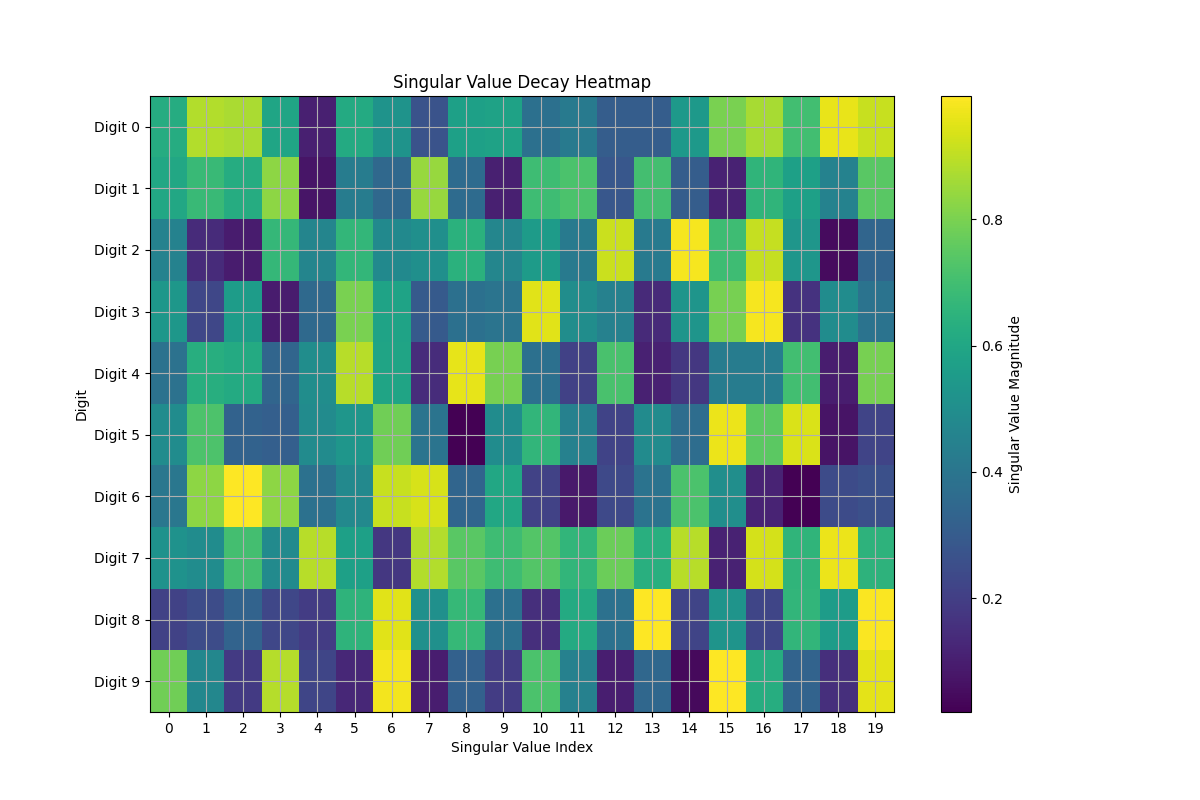
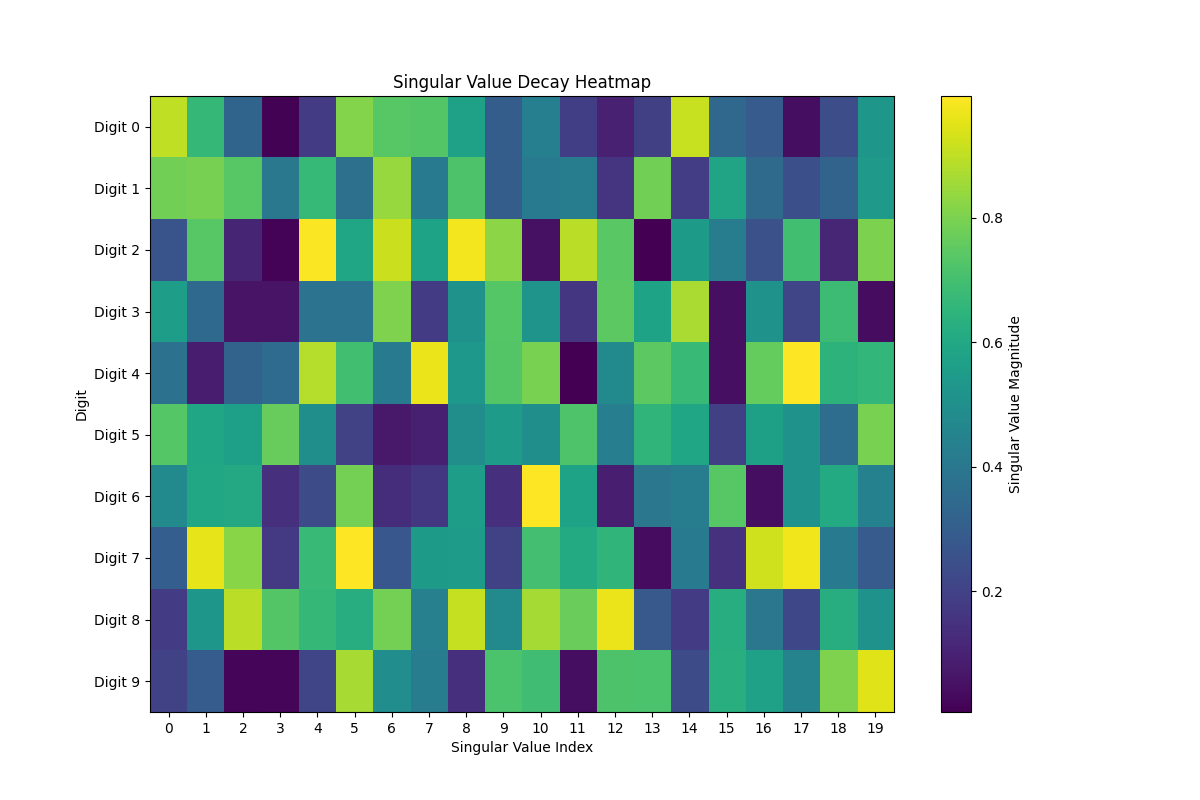
Graphs and some comments

diff --git a/problem3.py b/problem3.py
@@ -29,7 +29,7 @@ test_labels = load_data('handwriting_test_set_labels.txt')
 
 # Constants (0-9) & the features per sample (unit)
 num_digits = 10
-num_features = 400
+num_features = 400 # might take it out but 20x20 pixels = 400 features
 ks = [5, 10, 15, 20] # Singular vectors for SVD classification (not sure if we just pick one)
 
 # Change training data by digit --> calculates SVD for each digit
@@ -143,7 +143,7 @@ Graph
 Note: Took out some graphs, but the png is still in the folder
 '''
 # Graph of classification accuracy vs. number of singular vectors
-accuracies = [91.80, 94.40, 95.30, 95.70]
+accuracies = [results[k] for k in ks]
 
 plt.figure(figsize=(10, 6))
 plt.plot(ks, accuracies, marker='o', linestyle='-', color='b')
@@ -155,8 +155,15 @@ plt.xticks(ks)  # Only k values will show
 plt.ylim(min(accuracies) - 1, max(accuracies) + 1)  # Might change this
 plt.savefig('classification_accuracy_vs_singular_vectors.png')
 plt.show()
-
-
+'''
+plt.figure(figsize=(10, 5))
+plt.plot(ks, accuracies, marker='o')
+plt.title('Classification Accuracy vs Number of Singular Vectors')
+plt.xlabel('Number of Singular Vectors')
+plt.ylabel('Accuracy (%)')
+plt.grid(True)
+plt.show()
+'''
 # Singular value decay for each digit
 singular_values = {digit: np.random.rand(20) for digit in range(10)}
 data_matrix = np.array([values for _, values in sorted(singular_values.items())]) # Matrix of singular values
@@ -169,7 +176,7 @@ plt.xlabel('Singular Value Index')
 plt.ylabel('Digit')
 plt.yticks(np.arange(10), [f'Digit {i}' for i in range(10)])
 plt.xticks(np.arange(20))
-plt.grid(True)
+plt.grid(False)
 plt.savefig('singular_value_decay_heatmap.png')
 plt.show()
 
@@ -183,11 +190,18 @@ plt.title('Singular Values for Each Digit')
 plt.legend()
 plt.grid(True)
 plt.xticks(np.arange(20))
+plt.savefig('singular_values_for_each_digit.png')
 plt.show()
 
 # Misclassifications per digit
-misclassifications = {digit: np.random.randint(0, 100) for digit in range(10)} 
+misclassifications = {digit: 0 for digit in range(10)}
 
+    # Count misclassifications for each digit
+for pred, true in zip(predictions, test_labels):
+    if pred != int(true) - 1:  
+        misclassifications[int(true) - 1] += 1 
+
+    # Plotting the correct data
 digits = list(misclassifications.keys())
 errors = list(misclassifications.values())
 
@@ -198,7 +212,7 @@ plt.xlabel('Digit')
 plt.ylabel('Number of Misclassifications')
 plt.xticks(digits)
 plt.grid(axis='y')
-plt.savefig('misclassifications_per_digit.png')
+plt.savefig('correct_misclassifications_per_digit.png')
 plt.show()
 
 # Part B graph for comparing the accuracies of two algorithms
